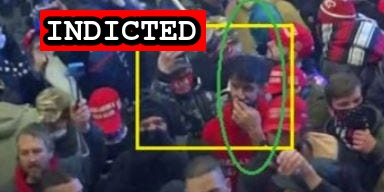
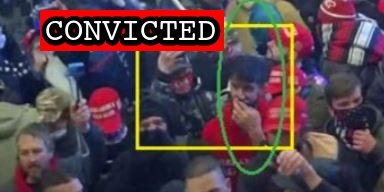
Latest import

Changed region(s): [[0.0938, 0.0312, 0.5938, 0.2812]]

diff --git a/docs/_suspects/stephen-ayres.md b/docs/_suspects/stephen-ayres.md
@@ -4,15 +4,17 @@ lastName: Ayres
 hashtag: StephenMichaelAyres
 aka:
 residence: Ohio
-status: Indicted
+status: Convicted
 date: 2021-01-25
 charged: 2021-01-25
 indicted: 2021-02-25
-convicted:
+convicted: 2022-06-08
+acquitted:
 sentenced:
 dismissed:
 deceased:
 plea_hearing: 2022-06-08
+trial_date:
 sentencing:
 age: 38
 occupation:
@@ -34,6 +36,9 @@ published: true
 caseNumber: 1:21-cr-156
 videos:
 charges:
+  - code: 18 USC § 1752(a)(2)
+    title: Disorderly and disruptive conduct in a restricted building or grounds
+    url: https://www.law.cornell.edu/uscode/text/18/1752
 sentence:
 ---
 
@@ -41,3 +46,5 @@ sentence:
 - [Statement of Facts](https://www.justice.gov/opa/page/file/1360721/download)
 - [Complaint](https://www.justice.gov/opa/page/file/1360951/download)
 - [Indictment](https://www.justice.gov/usao-dc/case-multi-defendant/file/1377916/download)
+- [Plea Agreement](https://www.justice.gov/usao-dc/case-multi-defendant/file/1511636/download)
+- [Statement of Offense](https://www.justice.gov/usao-dc/case-multi-defendant/file/1511641/download)

diff --git a/docs/_suspects/kevin-seefried.md b/docs/_suspects/kevin-seefried.md
@@ -9,6 +9,7 @@ date: 2021-01-14
 charged: 2021-01-14
 indicted: 2021-04-07
 convicted:
+acquitted:
 sentenced:
 dismissed:
 deceased:
@@ -37,10 +38,9 @@ videos:
 charges:
 sentence:
 ---
-
 - [News Report](https://www.delawareonline.com/story/news/2021/01/14/delaware-father-son-arrested-involvement-capitol-riot-kevin-seefried-confederate-flag/4160104001/)
 - [DOJ Press Release](https://www.justice.gov/usao-dc/pr/two-delaware-men-charged-federal-court-following-events-united-states-capitol)
 - [Complaint](https://www.justice.gov/usao-dc/press-release/file/1354301/download)
 - [Statement of Facts](https://www.justice.gov/usao-dc/press-release/file/1354306/download)
 - [Courthouse (VIDEO)](https://www.delawareonline.com/story/news/2021/01/14/delaware-father-son-arrested-involvement-capitol-riot-kevin-seefried-confederate-flag/4160104001/)
-- [Indictment](https://www.justice.gov/usao-dc/case-multi-defendant/file/1385176/download)
+- [Indictment](https://www.justice.gov/usao-dc/case-multi-defendant/file/1511456/download)

diff --git a/docs/_suspects/jesus-rivera.md b/docs/_suspects/jesus-rivera.md
@@ -9,10 +9,12 @@ date: 2021-01-20
 charged: 2021-01-20
 indicted:
 convicted:
+acquitted:
 sentenced:
 dismissed:
 deceased:
 plea_hearing:
+trial_date:
 sentencing:
 age: 37
 occupation: U.S. Marines (Former)
@@ -36,9 +38,8 @@ videos:
 charges:
 sentence:
 ---
-
 - [News Report](https://www.pnj.com/story/news/2021/01/20/jesus-rivera-pensacola-man-arrested-capitol-siege-grew-agitated-over-summer/4235901001/)
 - [Statement of Facts](https://www.justice.gov/opa/page/file/1357281/download)
 - [Complaint](https://www.justice.gov/opa/page/file/1357276/download)
 - [Court Appearance (Image)](https://www.gannett-cdn.com/presto/2021/01/20/PPEN/38e02794-b30f-426d-9a97-c6a344f5de7e-Jesus_D._Rivera-01.jpg)
-- [Information](https://www.justice.gov/usao-dc/case-multi-defendant/file/1377951/download)
+- [Information](https://www.justice.gov/usao-dc/case-multi-defendant/file/1511461/download)

diff --git a/docs/_suspects/hunter-seefried.md b/docs/_suspects/hunter-seefried.md
@@ -9,10 +9,12 @@ date: 2021-01-14
 charged: 2021-01-14
 indicted: 2021-04-07
 convicted: 
+acquitted:
 sentenced: 
 dismissed: 
 deceased:
 plea_hearing:
+trial_date:
 sentencing:
 age: 23
 occupation:
@@ -40,4 +42,4 @@ sentence:
 - [DOJ Press Release](https://www.justice.gov/usao-dc/pr/two-delaware-men-charged-federal-court-following-events-united-states-capitol)
 - [Complaint](https://www.justice.gov/usao-dc/press-release/file/1354301/download)
 - [Statement of Facts](https://www.justice.gov/usao-dc/press-release/file/1354306/download)
-- [Indictment](https://www.justice.gov/usao-dc/case-multi-defendant/file/1385176/download)
+- [Indictment](https://www.justice.gov/usao-dc/case-multi-defendant/file/1511451/download)
